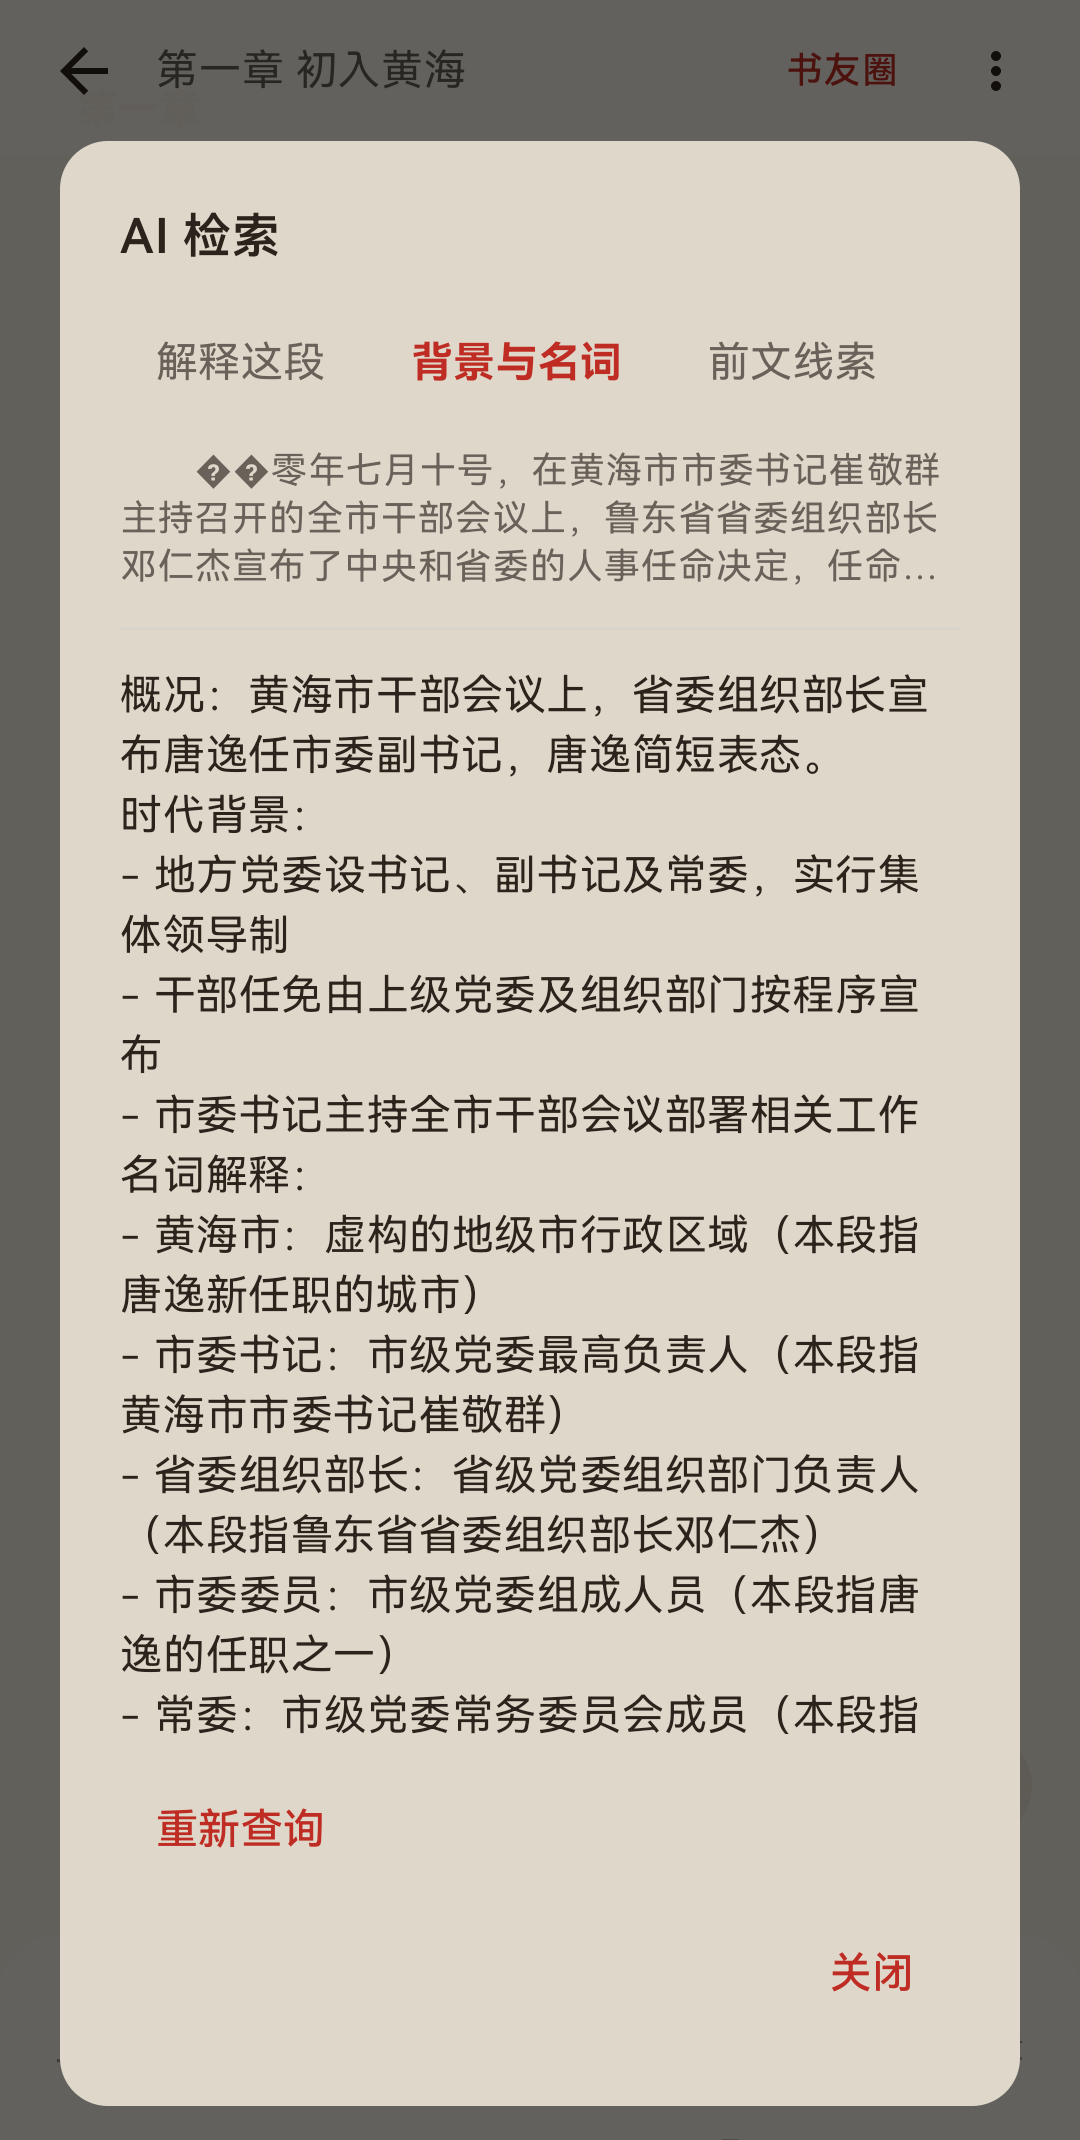
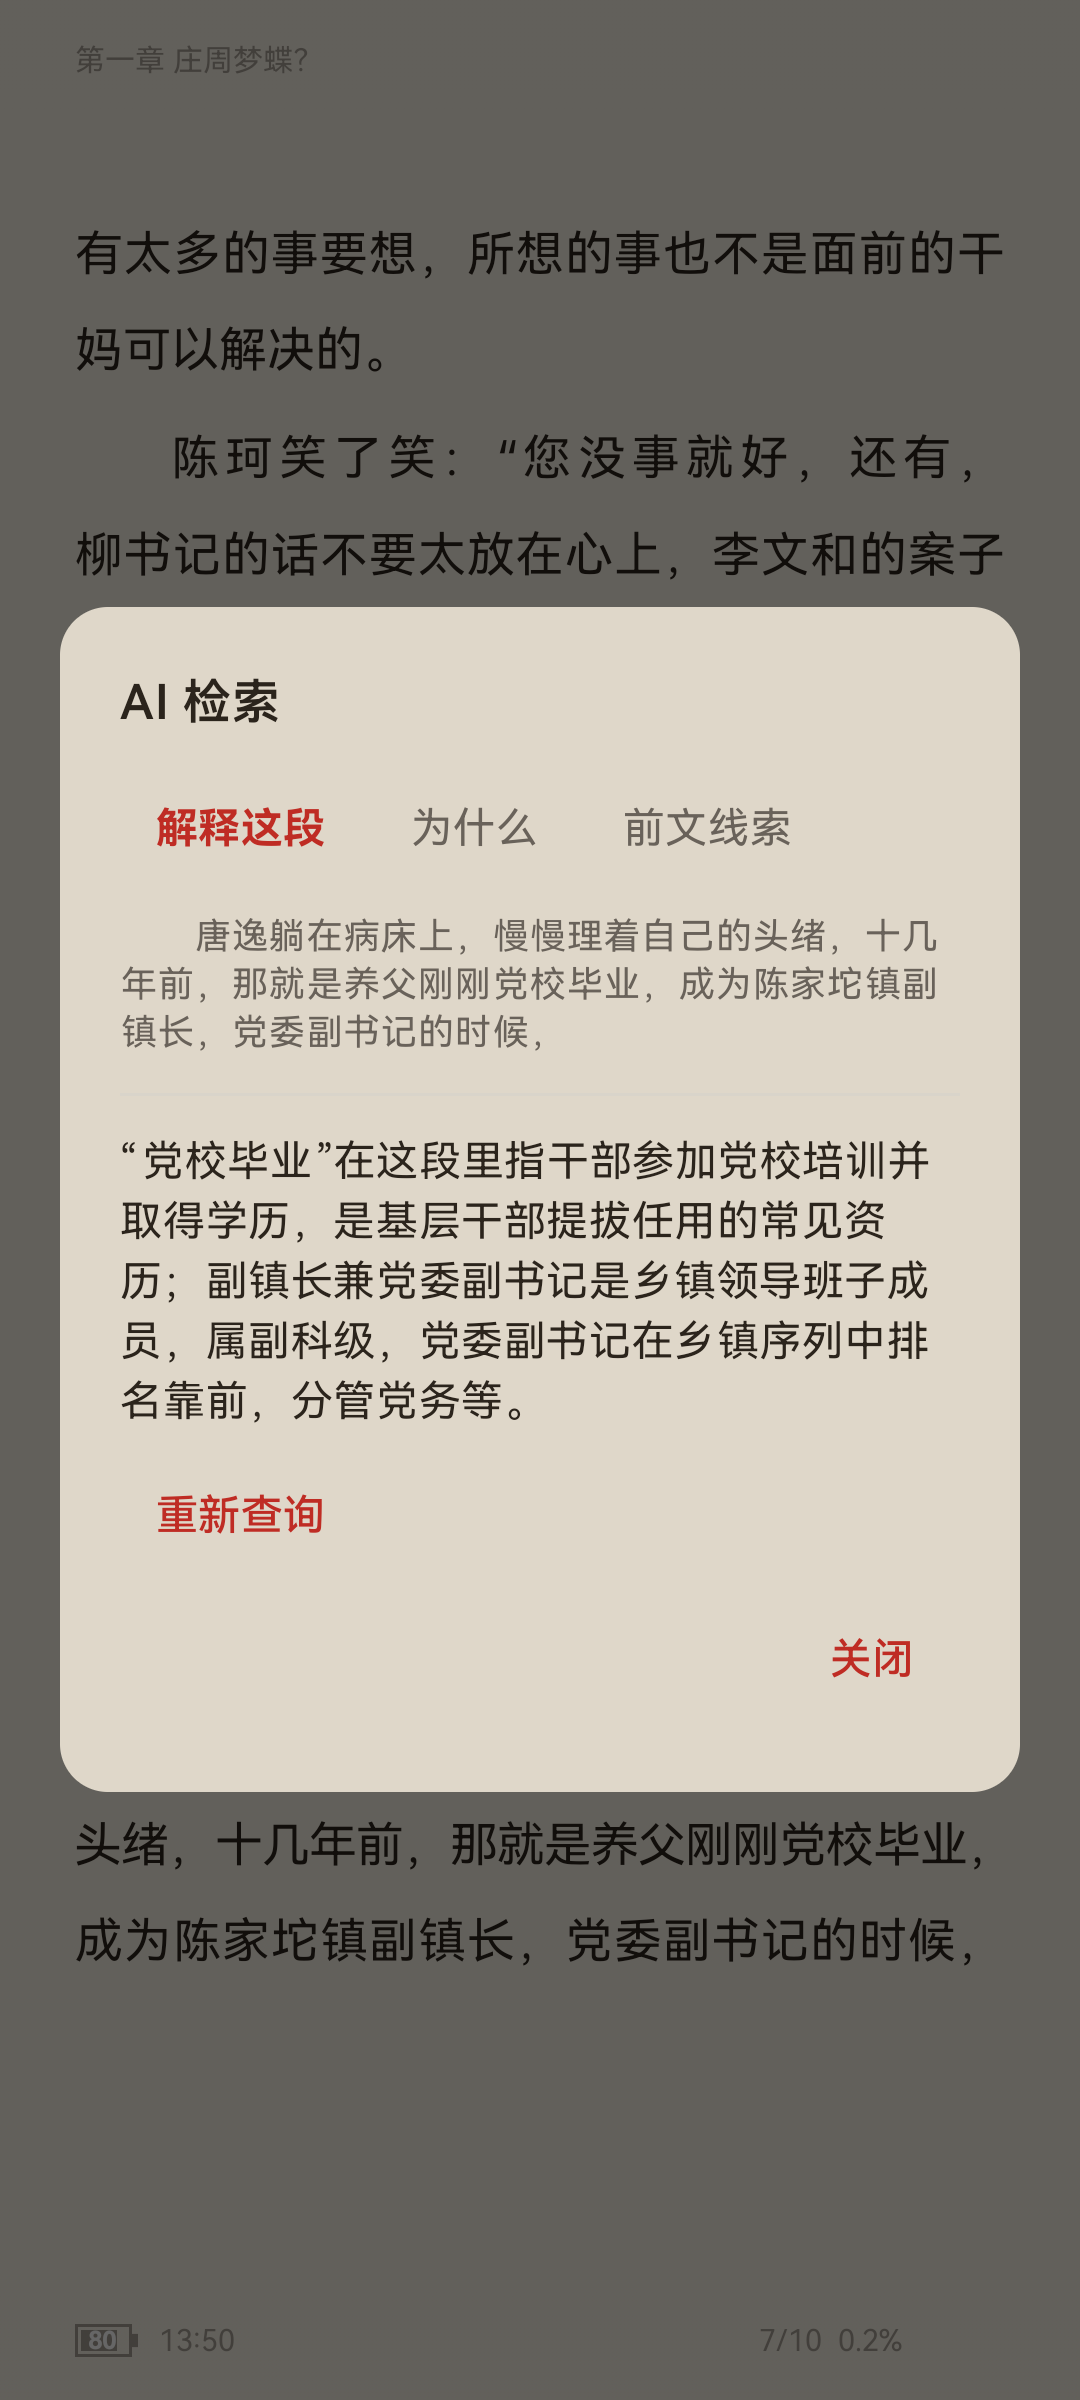
docs: 首屏截图换成新版三页签界面（基层履历段落，无敏感内容）

diff --git a/README.md b/README.md
@@ -21,7 +21,7 @@ cd ai-reading-assistant && cat docs/02-演示脚本.md
 
 ![真实界面：选中一段官场会议内容，返回时代背景与名词解释](assets/app-ai-insight.png)
 
-<sub>上图是真实运行截图：选中一段干部会议的文字，返回概况、3 条时代背景、5 个名词解释；只解释本段出现的词，不引入后文。</sub>
+<sub>上图是真实运行截图：选中一句基层履历的描述，只解释这句里出现的「党校毕业」「副镇长」「党委副书记」，其余一概不展开，也不引用后文。</sub>
 
 选中一段话，默认只给一段解释；不够再点开另外两页：
 
